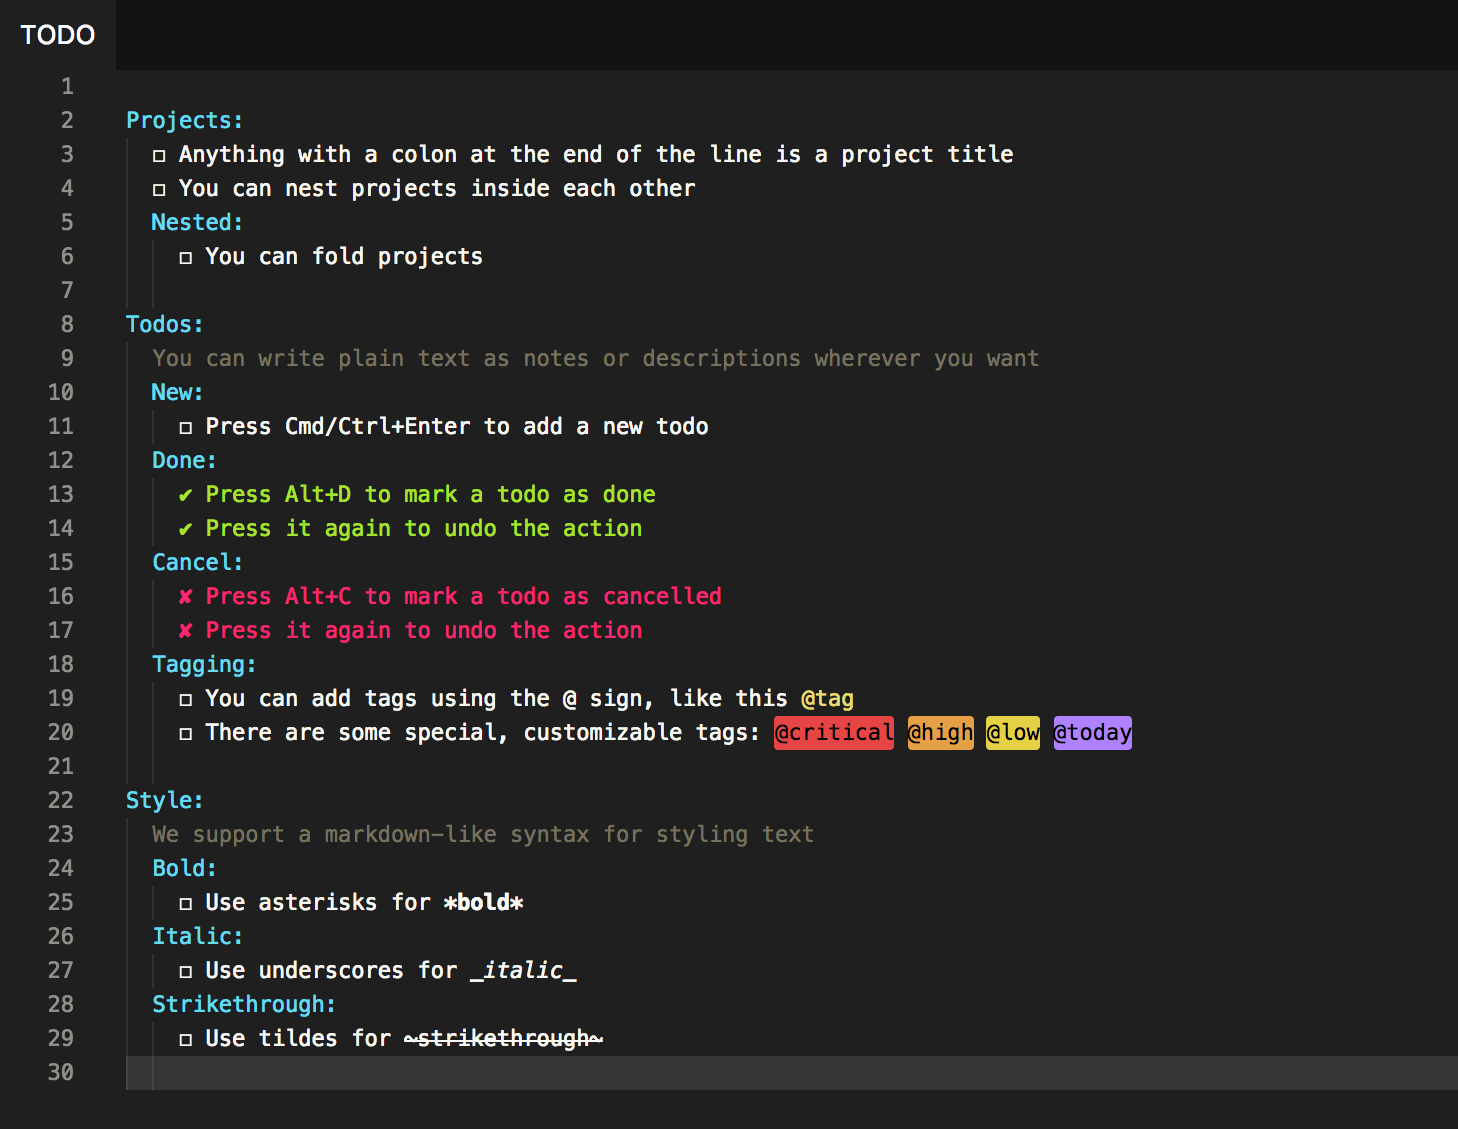
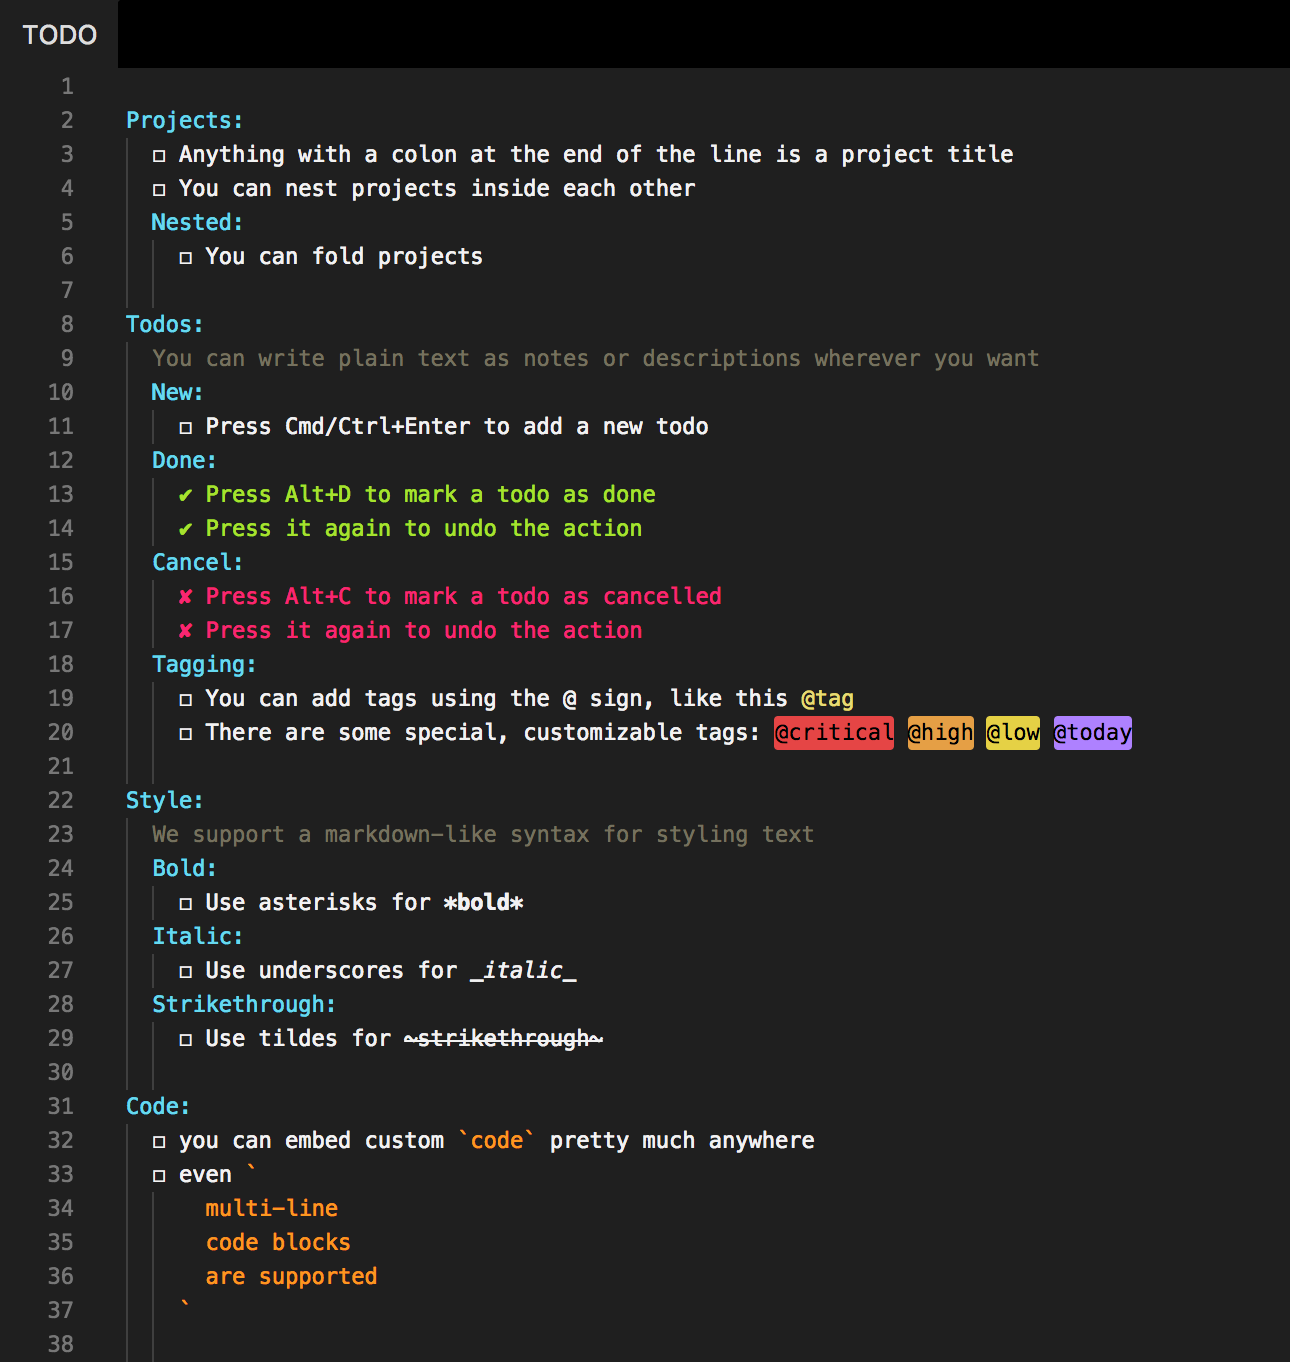
Added support for code blocks

diff --git a/src/todo/decorators/line.ts b/src/todo/decorators/line.ts
@@ -3,6 +3,7 @@
 
 import * as _ from 'lodash';
 import * as vscode from 'vscode';
+import Code from '../items/code';
 import Comment from '../items/comment';
 import LineItem from '../items/line';
 import Project from '../items/project';
@@ -17,7 +18,7 @@ class Line {
 
   /* RANGE */
 
-  getRange ( textLine: vscode.TextLine, startCharacter: number, endCharacter: number ) {
+  getRange ( textLine: vscode.TextLine, startCharacter: number, endCharacter: number ): vscode.Range {
 
     if ( startCharacter < 0 || endCharacter < 0 ) return;
 
@@ -27,29 +28,7 @@ class Line {
 
   }
 
-  getRangeLine ( textLine: vscode.TextLine ) {
-
-    return this.getRange ( textLine, 0, textLine.range.end.character );
-
-  }
-
-  getRangesToken ( textLine: vscode.TextLine, token: string ) {
-
-    const regex = new RegExp ( `(${_.escapeRegExp ( token )})`, 'gm' );
-
-    return this.getRangesRegex ( textLine, regex );
-
-  }
-
-  getRangesRegex ( textLine: vscode.TextLine, posRegex: RegExp, negRegex?: RegExp ) {
-
-    function matches2ranges ( matches ) {
-      return matches.map ( match => {
-        const end = match.index + match[0].length,
-              start = end - _.last ( match ).length;
-        return { start, end };
-      });
-    }
+  getRangesRegex ( textLine: vscode.TextLine, posRegex: RegExp, negRegex?: RegExp | RegExp[], negRange?: vscode.Range | vscode.Range[] ): vscode.Range[] {
 
     function rangesDifference ( pos, neg, length ) {
       const cells = _.fill ( Array ( length ), false );
@@ -77,32 +56,40 @@ class Line {
     }
 
     const posMatches = Utils.getAllMatches ( textLine.text, posRegex ),
-          posRanges = matches2ranges ( posMatches );
+          posRanges = Utils.matches2ranges ( posMatches );
 
-    let ranges = posRanges;
+    if ( !posRanges.length ) return []; // Early exit //TSC
 
-    if ( posRanges.length && negRegex ) {
+    let ranges = posRanges,
+        negRanges = _.castArray ( negRange || [] ).filter ( range => range.line === textLine.lineNumber );
 
-      const negMatches = Utils.getAllMatches ( textLine.text, negRegex ),
-            negRanges = matches2ranges ( negMatches );
+    if ( negRegex ) { // Getting negative ranges from negative regexes
 
-      if ( negRanges.length ) {
+      _.castArray ( negRegex ).forEach ( negRegex => {
 
-        ranges = rangesDifference ( posRanges, negRanges, textLine.text.length );
+        const negMatches = Utils.getAllMatches ( textLine.text, negRegex );
 
-      }
+        negRanges = negRanges.concat ( Utils.matches2ranges ( negMatches ) );
+
+      });
 
     }
 
-    return ranges.map ( ({ start, end }) => this.getRange ( textLine, start, end ) );
+    if ( negRanges.length ) { // Filtering out negative ranges
+
+      ranges = rangesDifference ( ranges, negRanges, textLine.text.length );
+
+    }
+
+    return ranges.map ( ({ start, end }) => this.getRange ( textLine, start, end ) ) ;
 
   }
 
   /* ITEMS */
 
-  getRanges ( items: Todo[] | Project[] | Comment[] | LineItem[] ) {
+  getRanges ( items: Todo[] | Project[] | Code[] | Comment[] | LineItem[], negRange?: vscode.Range | vscode.Range[] ) {
 
-    const ranges = (items.map as any)( this.getItemRanges.bind ( this ) ), //TSC
+    const ranges = (items.map as any)( item => this.getItemRanges ( item, negRange ) ), //TSC
           zipped = _.zip ( ...ranges ),
           compact = zipped.map ( _.compact ),
           concat = compact.map ( r => _.concat ( [], ...r ) );
@@ -111,11 +98,15 @@ class Line {
 
   }
 
-  getItemRanges ( item: Todo | Project | Comment | LineItem ) {}
+  getItemRanges ( item: Todo | Project | Code | Comment | LineItem, negRange?: vscode.Range | vscode.Range[] ): vscode.Range[] | vscode.Range[][] {
 
-  getDecorations ( items: Todo[] | Project[] | Comment[] | LineItem[] ) {
+    return [item.range];
 
-    const ranges = this.getRanges ( items );
+  }
+
+  getDecorations ( items: Todo[] | Project[] | Code[] | Comment[] | LineItem[], negRange?: vscode.Range | vscode.Range[] ) {
+
+    let ranges = this.getRanges ( items, negRange );
 
     return this.TYPES.map ( ( type, index ) => ({
       type,

diff --git a/src/todo/decorators/document.ts b/src/todo/decorators/document.ts
@@ -7,6 +7,7 @@ import Comment from './comment';
 import Project from './project';
 import Done from './done';
 import Cancel from './cancel';
+import Code from './code';
 import Tags from './tags';
 import Style from './style';
 import DocumentModule from '../document';
@@ -22,24 +23,29 @@ class Document {
 
     const doc = new DocumentModule ( textEditor.document ),
           lines = doc.getLines (),
+          codes = doc.getCodes (),
           comments = doc.getComments (),
           projects = doc.getProjects (),
           todos = doc.getTodos (),
-          decorations = Document.getDecorations ( lines, comments, projects, todos );
+          decorations = Document.getDecorations ( lines, codes, comments, projects, todos );
 
     decorations.forEach ( ({ type, ranges }) => textEditor.setDecorations ( type, ranges ) );
 
   }
 
-  static getDecorations ( lines, comments, projects, todos ) {
+  static getDecorations ( lines, codes, comments, projects, todos ) {
+
+    let codeRanges = new Code ().getRanges ( codes ),
+        negRanges = _.filter ( _.flatten ( _.flatten ( codeRanges ).map ( range => lines.map ( line => line.range.intersection ( range ) ) ) ) ).map ( range => ({ line: range.start.line, start: range.start.character, end: range.end.character }) ); //FIXME: O(n²), ugly
 
     return _.concat (
-      new Tags ().getDecorations ( lines ),
-      new Comment ().getDecorations ( comments ),
+      new Tags ().getDecorations ( lines, negRanges ),
+      new Code ().getDecorations ( codes ),
+      new Comment ().getDecorations ( comments, negRanges ),
       new Project ().getDecorations ( projects ),
-      new Done ().getDecorations ( todos ),
-      new Cancel ().getDecorations ( todos ),
-      new Style ().getDecorations ( lines )
+      new Done ().getDecorations ( todos, negRanges ),
+      new Cancel ().getDecorations ( todos, negRanges ),
+      new Style ().getDecorations ( lines, negRanges )
     );
 
   }

diff --git a/src/todo/document.ts b/src/todo/document.ts
@@ -4,6 +4,7 @@
 import * as _ from 'lodash';
 import * as vscode from 'vscode';
 import Line from './items/line';
+import Code from './items/code';
 import Comment from './items/comment';
 import Project from './items/project';
 import Todo from './items/todo';
@@ -28,7 +29,7 @@ class Document {
 
     return _.range ( this.textDocument.lineCount )
             .map ( lineNr => this.textDocument.lineAt ( lineNr ) )
-            .map ( line => new Line ( line ) );
+            .map ( line => new Line ( this.textDocument, line.range.start, line.range.end, line, line, line.text ) );
 
   }
 
@@ -38,11 +39,22 @@ class Document {
 
     return matches.map ( match => {
 
-      const line = this.textDocument.lineAt ( this.textDocument.positionAt ( match.index + 1 ).line );
+      let range = Utils.match2range ( match ),
+          startPos = this.textDocument.positionAt ( range.start ),
+          endPos = this.textDocument.positionAt ( range.end ),
+          startLine = this.textDocument.lineAt ( startPos ),
+          endLine = this.textDocument.lineAt ( endPos ),
+          text = _.last ( match );
 
-      return new Item ( line );
+      return new Item ( this.textDocument, startPos, endPos, startLine, endLine, text );
 
     });
+
+  }
+
+  getCodes () {
+
+    return this.getItems ( Code, Consts.regexes.code );
 
   }
 

diff --git a/src/todo/items/item.ts b/src/todo/items/item.ts
@@ -1,19 +1,36 @@
 
 /* IMPORT */
 
+import * as _ from 'lodash';
 import * as vscode from 'vscode';
 
 /* ITEM */
 
 class Item {
 
-  line: vscode.TextLine;
+  textDocument: vscode.TextDocument;
+  startPos: vscode.Position;
+  startOffset: number;
+  endPos: vscode.Position;
+  endOffset: number;
+  range: vscode.Range;
+  startLine: vscode.TextLine;
+  endLine: vscode.TextLine;
   text: string;
+  isMultiline: boolean;
 
-  constructor ( line: vscode.TextLine ) {
+  constructor ( textDocument: vscode.TextDocument, startPos: vscode.Position, endPos: vscode.Position, startLine: vscode.TextLine, endLine: vscode.TextLine, text: string ) {
 
-    this.line = line;
-    this.text = this.line.text.trim ();
+    this.textDocument = textDocument;
+    this.startPos = startPos;
+    this.startOffset = textDocument.offsetAt ( this.startPos );
+    this.endPos = endPos;
+    this.endOffset = textDocument.offsetAt ( this.endPos );
+    this.range = new vscode.Range ( this.startPos, this.endPos );
+    this.startLine = startLine;
+    this.endLine = endLine;
+    this.text = text;
+    this.isMultiline = this.startLine.lineNumber !== this.endLine.lineNumber;
 
   }
 

diff --git a/src/consts.ts b/src/consts.ts
@@ -18,6 +18,7 @@ const Consts = {
   colors: {
     cancel: Config.getKey ( 'colors.cancel' ),
     done: Config.getKey ( 'colors.done' ),
+    code: Config.getKey ( 'colors.code' ),
     comment: Config.getKey ( 'colors.comment' ),
     project: Config.getKey ( 'colors.project' ),
     tag: Config.getKey ( 'colors.tag' )
@@ -36,8 +37,9 @@ const Consts = {
     todoDone: /^[^\S\n]*((?:[✔✓☑+]|\[[xX+]\])[^\n]*)/,
     project: /^(?![^\S\n]*(?:[-❍❑■⬜□☐▪▫–—≡→›✘xX✔✓☑+]|\[[ xX+-]\])[^\n]*)[^\S\n]*(.+:[^\S\n]*)(?:(?=@(?!.+ +[^@]))|$)/,
     comment: /^(?![^\S\n]*(?:[-❍❑■⬜□☐▪▫–—≡→›✘xX✔✓☑+]|\[[ xX+-]\])[^\n]*)(?![^\S\n]*.+:[^\S\n]*(?:(?=@(?!.+ +[^@]))|$))[^\S\n]*([^\n]+)/,
-    tag: /(?:^|[^a-zA-Z0-9])(@[^\s*~_]+)/,
+    tag: /(?:^|[^a-zA-Z0-9`])(@[^\s*~_]+)/,
     tagSpecial: /(?=a)b/,
+    code: /(`[^`]*`)/,
     bold: /(?:^|\s)(\*.+\*)(?:\s|$)/,
     italic: /(?:^|\s)(_.+_)(?:\s|$)/,
     strikethrough: /(?:^|\s)(~.+~)(?:\s|$)/

diff --git a/src/todo/decorators/style.ts b/src/todo/decorators/style.ts
@@ -25,21 +25,21 @@ class Style extends Line {
 
   TYPES = [BOLD, ITALIC, STRIKETHROUGH];
 
-  getItemRanges ( line: LineItem ) {
+  getItemRanges ( line: LineItem, negRange?: vscode.Range | vscode.Range[] ) {
 
     return [
-      this.getRangesRegex ( line.line, Consts.regexes.bold ),
-      this.getRangesRegex ( line.line, Consts.regexes.italic ),
-      this.getRangesRegex ( line.line, Consts.regexes.strikethrough )
+      this.getRangesRegex ( line.startLine, Consts.regexes.bold, undefined, negRange ),
+      this.getRangesRegex ( line.startLine, Consts.regexes.italic, undefined, negRange ),
+      this.getRangesRegex ( line.startLine, Consts.regexes.strikethrough, undefined, negRange )
     ];
 
   }
 
-  getDecorations ( items? ) {
+  getDecorations ( items?: LineItem[], negRange?: vscode.Range | vscode.Range[] ) {
 
     if ( !Config.getKey ( 'formatting.enabled' ) ) return [];
 
-    return super.getDecorations ( items );
+    return super.getDecorations ( items, negRange );
 
   }
 

diff --git a/src/todo/decorators/tags.ts b/src/todo/decorators/tags.ts
@@ -25,15 +25,15 @@ class Tags extends Line {
 
   TYPES = [...SPECIAL_TAGS, TAG];
 
-  getItemRanges ( line: LineItem ) {
+  getItemRanges ( line: LineItem, negRange?: vscode.Range | vscode.Range[] ) {
 
     return [
       ...names.map ( name => {
         const tag = Document.toTag ( name ),
               regex = new RegExp ( `(?:^|[^a-zA-Z0-9])(${_.escapeRegExp ( tag )})(?![a-zA-Z])`, 'gm' );
-        return this.getRangesRegex ( line.line, regex );
+        return this.getRangesRegex ( line.startLine, regex, undefined, negRange );
       }),
-      this.getRangesRegex ( line.line, Consts.regexes.tag )
+      this.getRangesRegex ( line.startLine, Consts.regexes.tag, undefined, negRange )
     ];
 
   }

diff --git a/src/todo/items/comment.ts b/src/todo/items/comment.ts
@@ -2,6 +2,7 @@
 /* IMPORT */
 
 import Item from './item';
+import Code from './code';
 import Project from './project';
 import Todo from './todo';
 import Consts from '../../consts';
@@ -12,7 +13,7 @@ class Comment extends Item {
 
   static is ( str: string ) {
 
-    return !Project.is ( str ) && !Todo.is ( str ) && super.is ( str, Consts.regexes.comment );
+    return !Code.is ( str ) && !Project.is ( str ) && !Todo.is ( str ) && super.is ( str, Consts.regexes.comment );
 
   }
 

diff --git a/src/utils.ts b/src/utils.ts
@@ -77,6 +77,23 @@ const Utils = {
 
   },
 
+  matches2ranges ( matches: RegExpMatchArray[] ) {
+
+    return matches.map ( Utils.match2range );
+
+  },
+
+  match2range ( match: RegExpMatchArray ) {
+
+    const first = _.first ( match ),
+          last = _.last ( match ),
+          start = match.index + first.indexOf ( last ),
+          end = start + last.length;
+
+    return {start, end};
+
+  },
+
   editor: {
 
     isSupported ( textEditor?: vscode.TextEditor ) {

diff --git a/src/todo/decorators/cancel.ts b/src/todo/decorators/cancel.ts
@@ -16,11 +16,11 @@ class Cancel extends Line {
 
   TYPES = [TODO];
 
-  getItemRanges ( todo: Todo ) {
+  getItemRanges ( todo: Todo, negRange?: vscode.Range | vscode.Range[] ) {
 
     if ( !todo.isCancel () ) return [];
 
-    return [this.getRangesRegex ( todo.line, Consts.regexes.todo, Consts.regexes.tag )];
+    return [this.getRangesRegex ( todo.startLine, Consts.regexes.todo, Consts.regexes.tag, negRange )];
 
   }
 

diff --git a/src/todo/decorators/done.ts b/src/todo/decorators/done.ts
@@ -16,11 +16,11 @@ class Done extends Line {
 
   TYPES = [TODO];
 
-  getItemRanges ( todo: Todo ) {
+  getItemRanges ( todo: Todo, negRange?: vscode.Range | vscode.Range[] ) {
 
     if ( !todo.isDone () ) return [];
 
-    return [this.getRangesRegex ( todo.line, Consts.regexes.todo, Consts.regexes.tag )];
+    return [this.getRangesRegex ( todo.startLine, Consts.regexes.todo, Consts.regexes.tag, negRange )];
 
   }
 

diff --git a/src/todo/decorators/comment.ts b/src/todo/decorators/comment.ts
@@ -16,9 +16,9 @@ class Comment extends Line {
 
   TYPES = [COMMENT];
 
-  getItemRanges ( comment: CommentItem ) {
+  getItemRanges ( comment: CommentItem, negRange?: vscode.Range | vscode.Range[] ) {
 
-    return [this.getRangesRegex ( comment.line, Consts.regexes.comment, Consts.regexes.tag )];
+    return [this.getRangesRegex ( comment.startLine, Consts.regexes.comment, Consts.regexes.tag, negRange )];
 
   }
 
